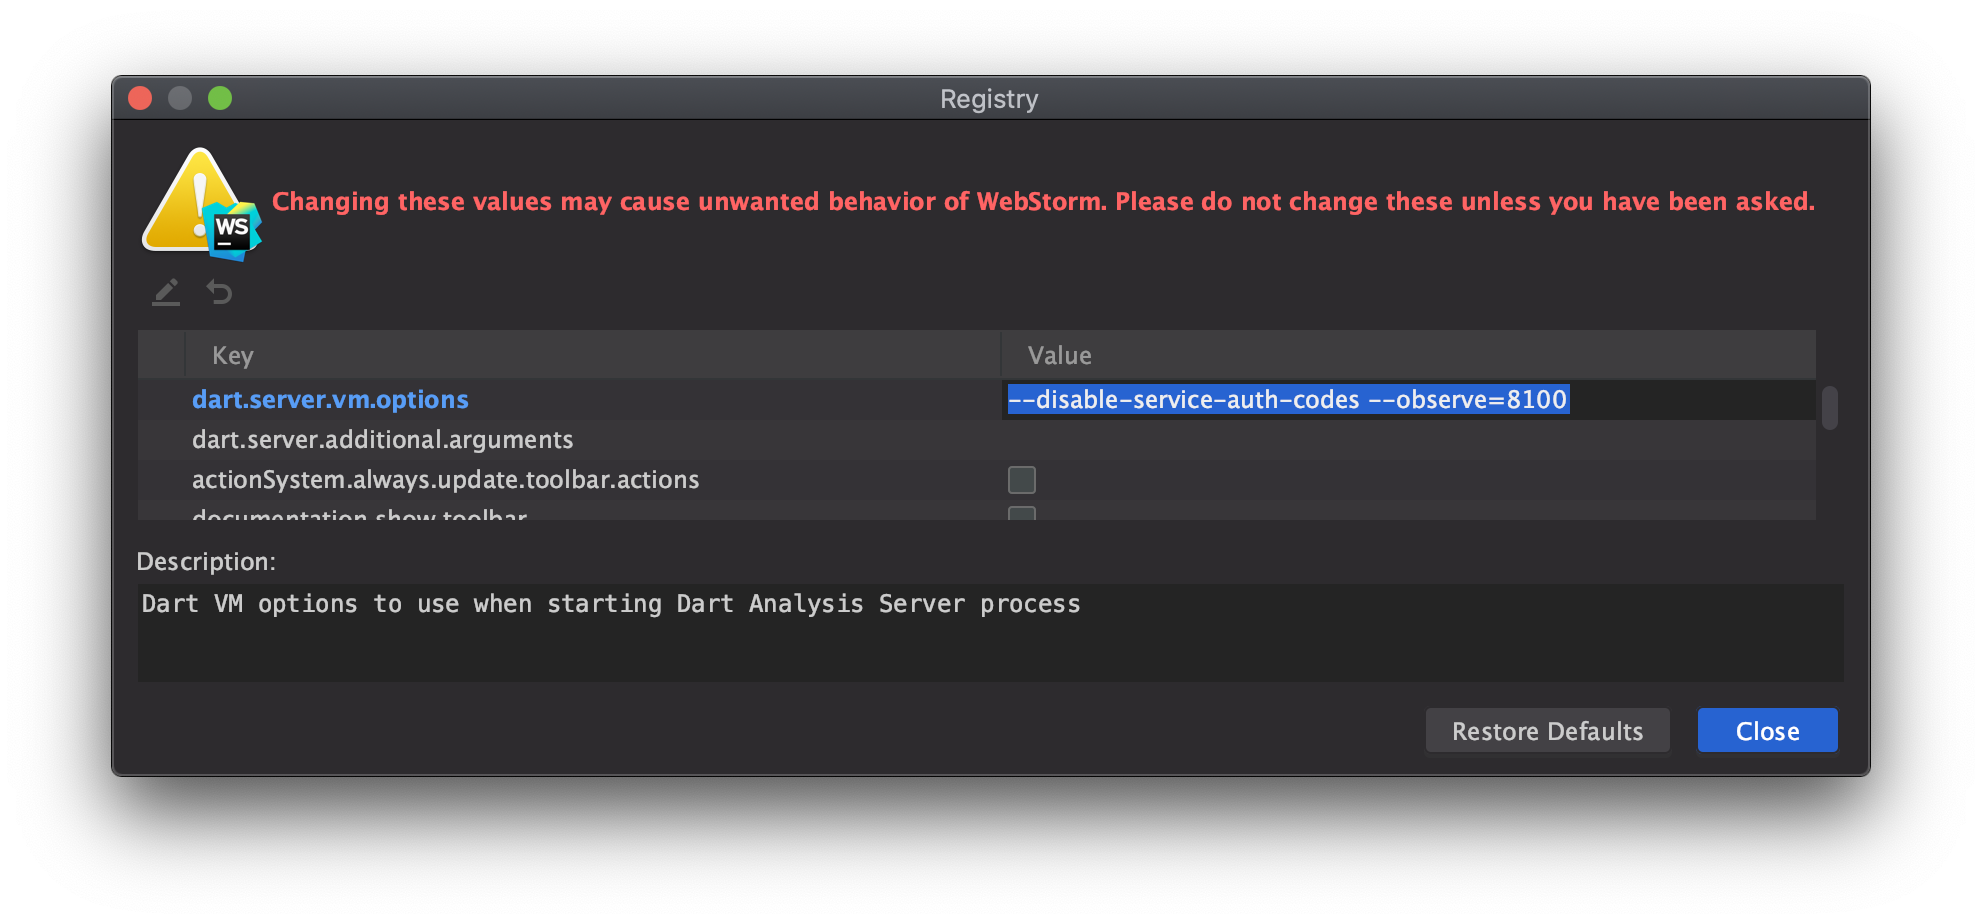
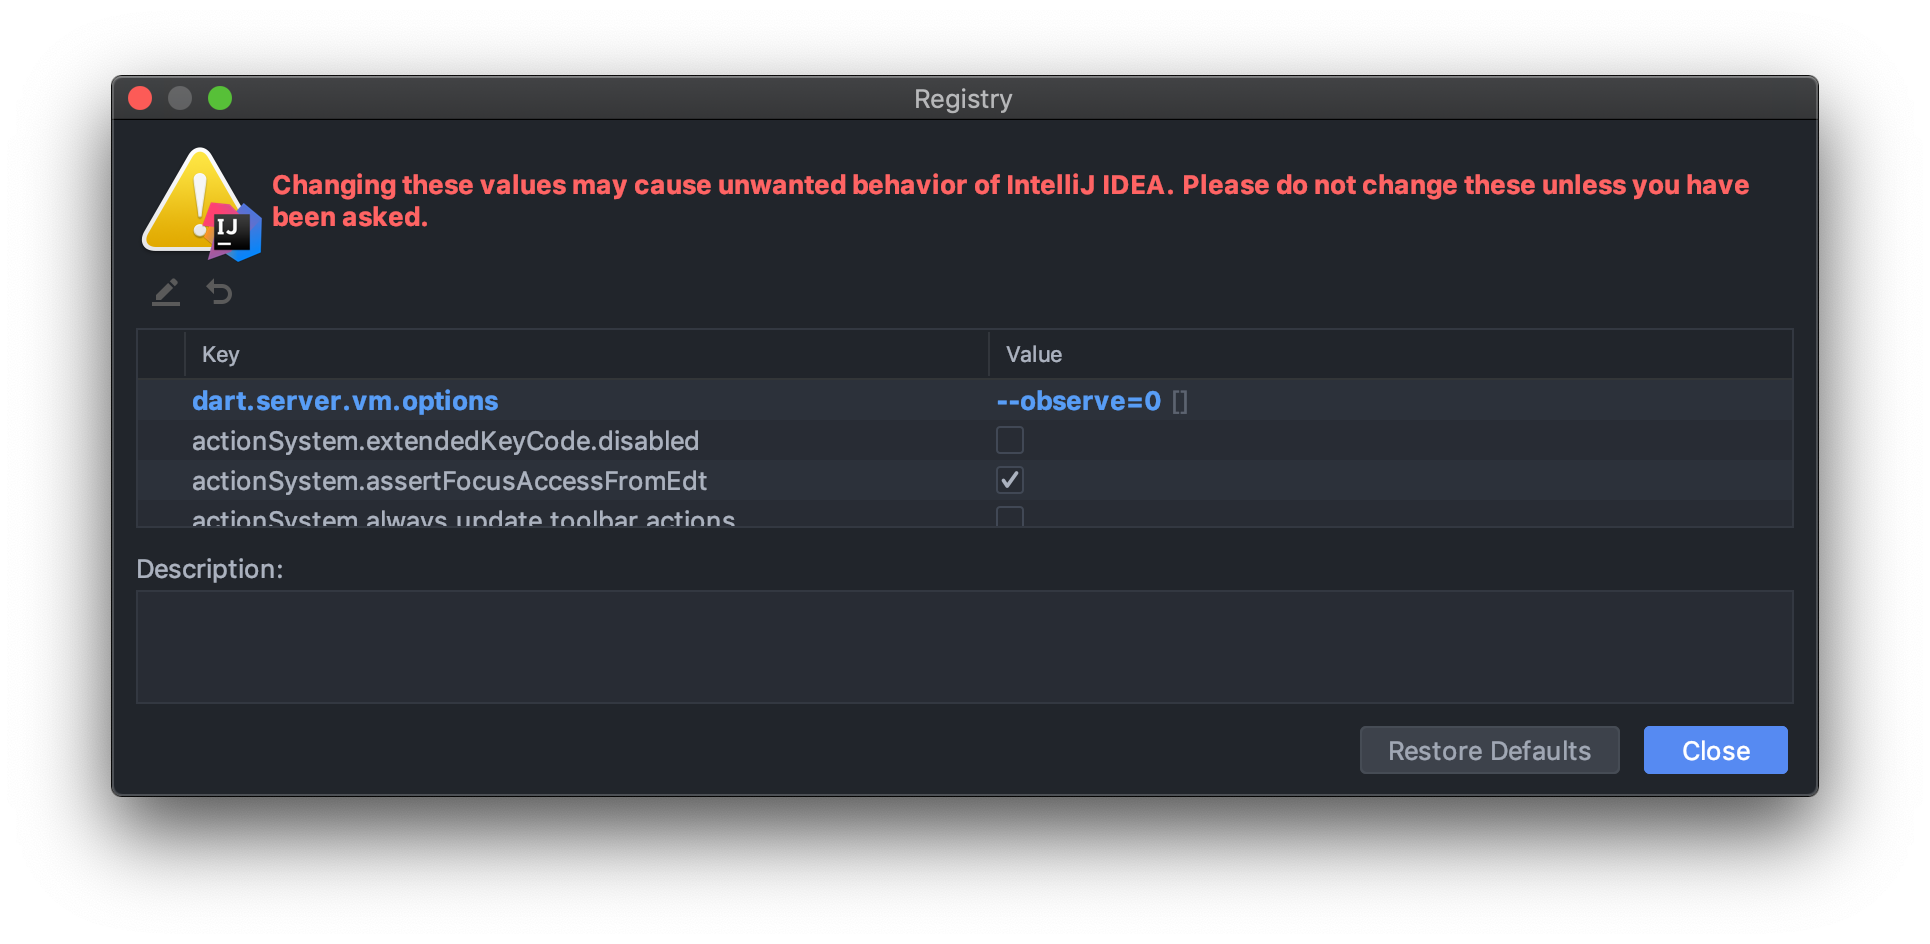
update debug docs

Changed region(s): [[0.0311, 0.0606, 0.9637, 0.6667], [0.0622, 0.7576, 0.9637, 0.8485], [0.4974, 0.4848, 0.5285, 0.5758]]

diff --git a/tools/analyzer_plugin/README.md b/tools/analyzer_plugin/README.md
@@ -50,49 +50,52 @@ This script sets up a symlink to point to the original plugin directory (replaci
 1. Wait for the Analysis Server to boot up, analyze, and run your updated plugin code    
 
 ### Debugging the Plugin
-The dev experience when working on this plugin isn't ideal (See the analyzer_plugin debugging docs [for more information](https://github.com/dart-lang/sdk/blob/master/pkg/analyzer_plugin/doc/tutorial/debugging.md) for more info), but it is possible to get set up to debug and see logs from the plugin.
+The dev experience when working on this plugin isn't ideal (See the `analyzer_plugin` debugging docs [for more information](https://github.com/dart-lang/sdk/blob/master/pkg/analyzer_plugin/doc/tutorial/debugging.md)), but it's possible debug and see logs from the plugin.
 
 These instructions are currently for JetBrains IDEs (IntelliJ, WebStorm, etc.) only.
 
-1. Open the "Registry" using the command palette (<kbd>Command</kbd>+<kbd>Shift</kbd>+<kbd>A</kbd>)
+Before starting, ensure you have the option `Scope analysis to the current package` turned on Dart Analysis Server Settings. You can make the development cycle even faster by opening `analyzer_plugin` as it's own project (rather than opening `over_react`) in your IDE.
 
-    ![](doc/open-jetbrains-registry.png)
-    
-2. Edit the `dart.server.vm.options` configuration and set the value to `--disable-service-auth-codes --observe=8100`
+1. Ensure your Dart version is at least `2.8.3`. (The protocol connection was made available somewhere around this version)
 
-    ![](doc/edit-jetbrains-registry.png) 
-    
-    - `--observe=8100` - Allow access to the Observatory on port 8100 (can be any port of your choosing) so that our debugger can connect to it.
-    - `--disable-service-auth-codes` - Disable authentication on the Observatory, since the JetBrains plugin swallows the log that outputs the auth code.
-    
-            
-6. In the project you're running your plugin on, restart the Dart Analysis Server so that it launches with these flags. You may have to close other Dart projects first to ensure other analysis servers don't take the reserved port.
-
-    _TODO we need more investigation around whether this is necessary; if it is, we may want to integrate `--write-service-info` into the instructions._
-
-4. In the over_react_analyzer_plugin project, create a new Run Configuration using the "Dart Remote Debug" template
+1. In your project, create a new Run Configuration using the `Dart Remote Debug` template
     
     ![](doc/create-configuration-1.png) 
     
     ![](doc/create-configuration-2.png) 
     
-5. Ensure the "Search sources in" section is pointing to the plugin package directory and save it.
+1. Ensure the "Search sources in" section is pointing to the plugin package directory. Save your new Configuration. We'll come back to it later.
     
     ![](doc/create-configuration-3.png) 
+
+1. Open the "Registry" using the command palette (<kbd>Command</kbd>+<kbd>Shift</kbd>+<kbd>A</kbd>)
+
+    ![](doc/open-jetbrains-registry.png)
     
-7. Run your newly created configuration by selecting it and clicking the "Debug" button
+1. Find the `dart.server.vm.options` key and set the value to `--observe=0` (allows access to the Observatory on a random, non-allocated port)
+
+    ![](doc/edit-jetbrains-registry.png) 
+            
+1. Next, we need to open the analyzer diagnostics to find the URL for our debugger. Open the Dart Analaysis Server Settings, and click `View analyzer diagnostics`. This will open your browser.
+    ![](doc/open-analyzer-diagnostics.gif) 
+
+1. In the Analysis Server Diagnostics page in your browser, click the `Memory and CPU Usage` tab. Copy the protocol connection URL.
+    ![](doc/find-the-port.png)
+  
+1. Run your newly created configuration by selecting it and clicking the "Debug" button
     
     ![](doc/run-configuration-1.png)
     
-8. When prompted, enter in `http://127.0.0.1:8100`, removing any parts of the URL dealing with auth codes.
-    
+1. Finally, when prompted, paste the URL you just copied and click `OK`.
     ![](doc/run-configuration-2.png)
 
-8. In the debugger tab that was opened, verify that the debugger connected.
+1. In the debugger tab that was opened, verify that the debugger connected.
     
     ![](doc/verify-connected.png)
     
-9. Start debugging! You can set breakpoints, view logs, and do everything else you'd normally use the debugger for.
+Congrats, you're debugging! 🎉
+
+You can now set breakpoints, view logs, and do everything else you'd normally do in the debugger for.
 
 
 [analyzer_plugin]: https://github.com/dart-lang/sdk/tree/master/pkg/analyzer_plugin
